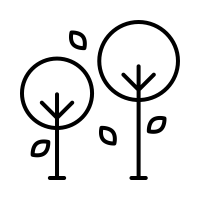
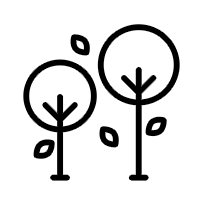
Alterações no Footer e mudança de Imagens

Changed region(s): [[0.09, 0.09, 0.9, 0.9], [0.48, 0.6, 0.6, 0.75]]

diff --git a/home.html b/home.html
@@ -103,6 +103,7 @@
             </div>
 
             <legend class="legendas">SAÚDE</legend>
+            <p>Lorem, ipsum dolor sit amet consectetur adipisicing elit. Neque molestias hic nesciunt a aut.</p>
         </div>
         <div class="pilar">
             <div>
@@ -110,6 +111,7 @@
             </div>
 
             <legend class="legendas">ANIMAIS</legend>
+            <p>Lorem, ipsum dolor sit amet consectetur adipisicing elit. Neque molestias hic nesciunt a aut.</p>
         </div>
         <div class="pilar">
             <div>
@@ -117,6 +119,7 @@
             </div>
 
             <legend class="legendas">MEIO AMBIENTE</legend>
+            <p>LLorem, ipsum dolor sit amet consectetur adipisicing elit. Neque molestias hic nesciunt a aut.</p>
         </div>
 
     </section>
@@ -142,7 +145,9 @@
     <footer>
         <div class="caixaFooter">
             <nav>
+
                 <ul>
+                    <h3>MENU</h3>
                     <li>
                         <a href="comof.html">
                             COMO FUNCIONA
@@ -171,31 +176,40 @@
                 </ul>
             </nav>
             <div class="fundoLogo">
-                <img id="logoFooter" src="img/logonome.png" alt="logo">
+                <img id="logoFooter" src="img/logonomebranco.png" alt="logo"> 
             </div>
             <div class="caixaRedes">
-                <div class="redes">
-                    <a href="fb.com">
-                        <img src="img/facebook.png" alt="">
-                    </a>
-                </div>
-                <div class="redes">
-                    <a href="instagram.com">
-                        <img src="img/instagram.png" alt="">
-                    </a>
-                </div>
-                <div class="redes">
-                    <a href="youtube.com">
-                        <img src="img/youtube.png" alt="">
-                    </a>
+                <h3>REDES SOCIAIS</h3>
+                <div>
+                    <div class="redes">
+                        <a href="fb.com">
+                            <img src="img/facebook.png" alt="">
+                        </a>
+                    </div>
+
+                    <div class="redes">
+
+                        <a href="instagram.com">
+                            <img src="img/instagram.png" alt="">
+                        </a>
+                    </div>
+                    <div class="redes">
+                        <a href="youtube.com">
+                            <img src="img/youtube.png" alt="">
+                        </a>
+                    </div>
                 </div>
             </div>
-        </div>
+        
+
+
+
+    </footer>
+    <div id="miniFooter">
         <p>
             ©2018 - Vegetalize Developers
         </p>
-
-    </footer>
+    </div>
 
 </body>
 

diff --git a/css/footer.css b/css/footer.css
@@ -10,6 +10,7 @@ footer{
 }
 footer li{
     list-style-type: none;
+    
 }
 .caixaFooter{
     display: flex;
@@ -27,7 +28,8 @@ footer li a{
     text-align: center;
     font-weight: 600;
     color: #faffea;
-    font-size: 14pt;
+    font-size: 12pt;
+    
 
 
     
@@ -43,10 +45,9 @@ footer li a{
     display: flex;
     align-items: center;
     justify-content: center;
-    background-color: #fafAEE;
     height: 47px;
     width: 210px;
-    border-radius: 50px;
+    
     
 }
 .redes img{
@@ -62,13 +63,28 @@ footer li a{
     justify-content: center;
     align-items: center;
     margin: 8px;
+    border: 4px solid #cc5d4f;
 }
 .caixaRedes{
     display: flex;
+    flex-direction: column;
+    align-items: center;
 }
-footer p{
-    margin-top:30px;
+.caixaRedes>div{
+    display: flex;
 }
-footer nav{
-    padding-top:50px;
+
+
+#miniFooter{
+    display: flex;
+    justify-content: center;
+    align-items: center;
+    background-color: #cc5d4f;
+    height: 25px;
+    font-weight: 600;
+}
+h3{
+    margin-bottom: 8px;
+    color: #fafAEE;
+   
 }

diff --git a/css/sections.css b/css/sections.css
@@ -20,6 +20,7 @@
 .caixaDoProjeto{
     display: flex;
     justify-content: center; 
+    align-items: center;
 }
 .textoProjeto{
     width: 40vw;
@@ -34,14 +35,16 @@
 
 .folha img{
     float: right;
-    margin-top: 35%;
+    margin-top: 60%;
     animation: pulsar 3.3s linear infinite;
+    width: 170px;
 
 }
 
 .caixaDaTransicao{
     display: flex;
     justify-content: center; 
+    align-items: center;
 }
 .textoTransicao{
     width: 38vw;
@@ -53,6 +56,7 @@
 }
 .caixaDaTransicao h1{
     text-align: end;
+   
 }
 .frigideira{
     width: 20vw; 
@@ -60,8 +64,9 @@
 
 .frigideira img{
     transform: rotate(-10deg);
-    margin-top: 40%;
+    margin-top: 50%;
     animation: mexer 1s step-end infinite;
+    width: 230px;
    
 }
 
@@ -132,12 +137,15 @@
     width: 200px;
     height: 200px;
 }
+.pilar p{
+    width: 70%;
+    text-align: center;
+}
 
 #vaca{
-    width: 300px;
-    height: 250px;
+    
 }
 #arvore{
-    width: 170px;
-    height: 170px;
+    width: 180px;
+    height: 180px;
 }
